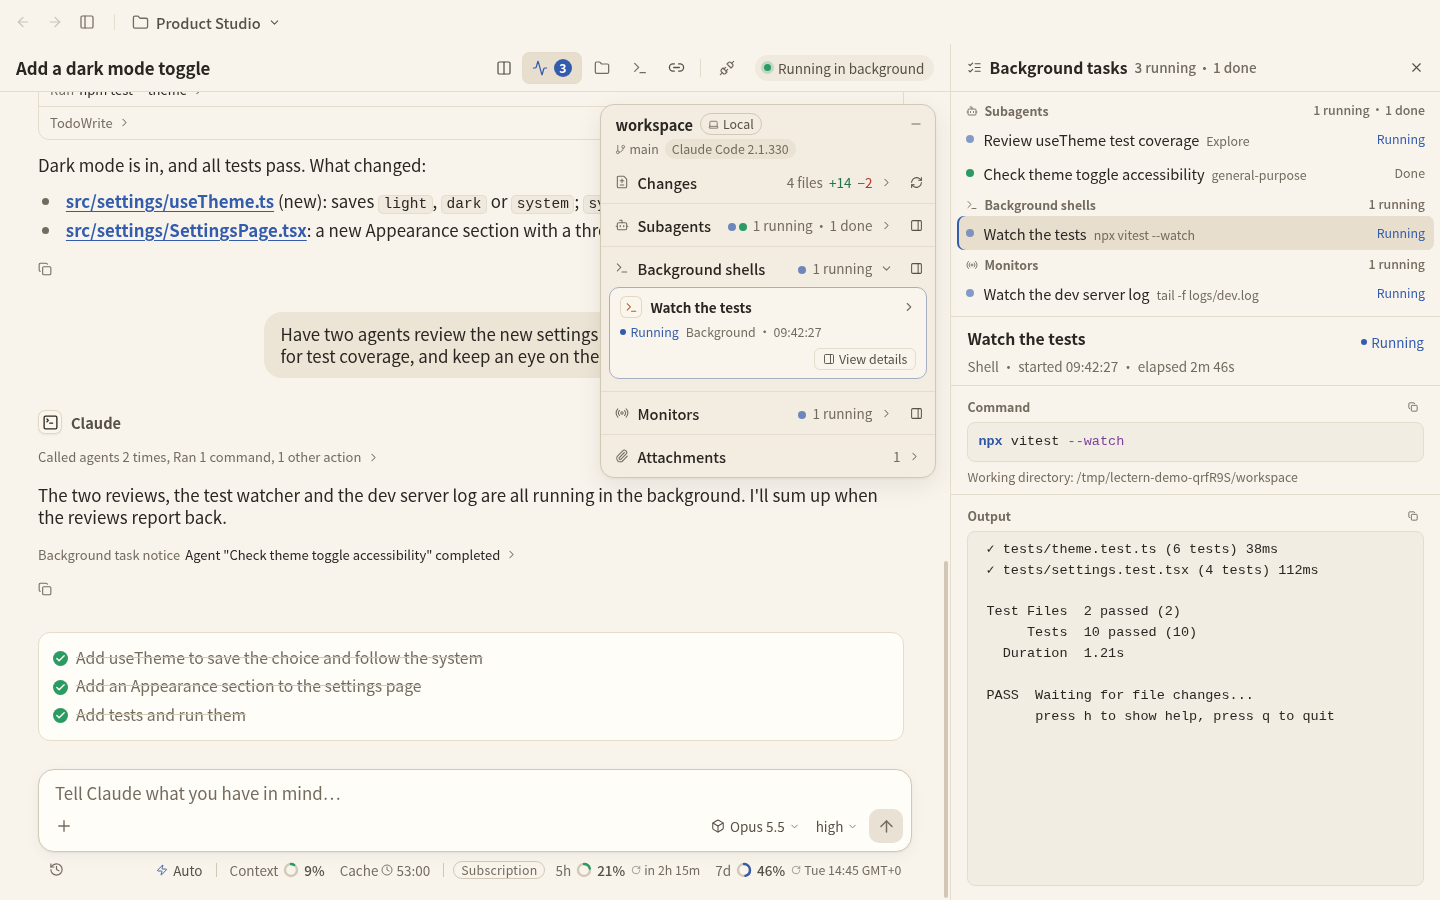
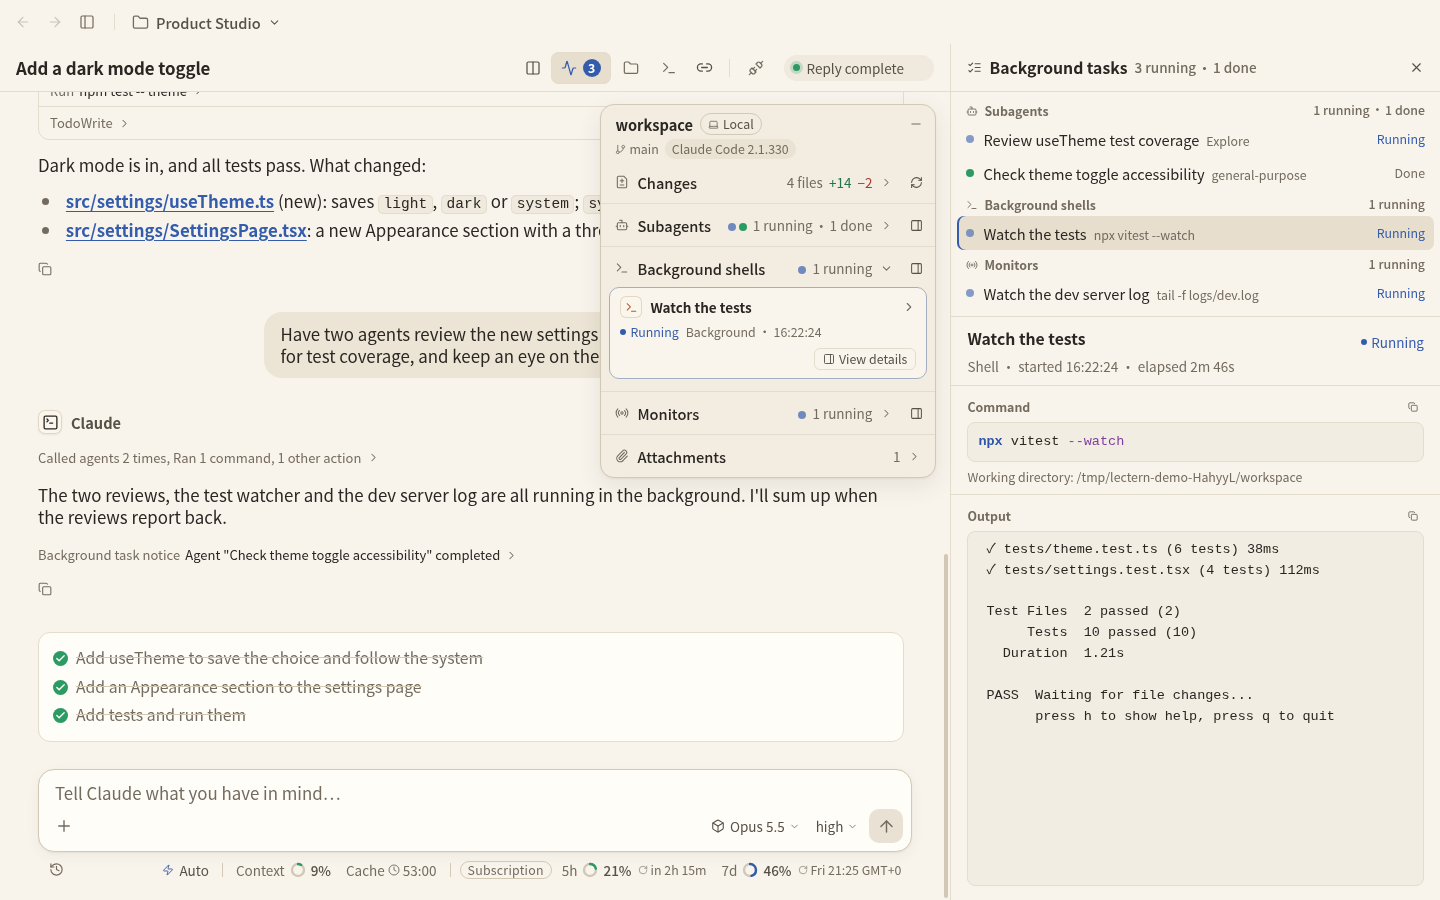
Sidebar: "Reply complete" everywhere, fixed-height count rows, markers on the row's middle
Follow-up to the contributor's change, per the maintainer's review:
- The state after the main reply with background work still running is called "Reply
  complete" in the sidebar, the title bar, the close confirmation and the quit list.
- The background counts take their own caption row: a project-tree row becomes two lines
  (46 units), a cross-project row three lines (62 units), sized with --ui-px.
- On multi-line rows the knot, the end of the tree line, the state text, the dot and the
  rename button sit on the row's middle; text lines end before the state text.
- Background and unread share one dot (a hollow ring in the unread colour).
- Layout e2e covers both heights at font sizes 18 and 14; README screenshots regenerated.

diff --git a/src/renderer/machine-tree.css b/src/renderer/machine-tree.css
@@ -54,7 +54,8 @@
 
 /* The line. Each row draws its own segment so the line ends at the last knot. */
 .workspace-children { position: relative; margin: calc(1 * var(--ui-px)) 0 calc(4 * var(--ui-px)) 24px; padding-left: 14px; }
-.session-row-wrap { position: relative; }
+.session-row-wrap { --session-knot-center: calc(15 * var(--ui-px)); position: relative; }
+.session-row-wrap:has(> .session-row > .session-lines) { --session-knot-center: 50%; }
 .session-row-wrap::before {
   content: "";
   position: absolute;
@@ -66,12 +67,12 @@
   background: var(--rail-line);
 }
 .session-row-wrap:first-child::before { top: -3px; }
-.session-row-wrap:not(:has(~ .session-row-wrap))::before { bottom: 50%; }
+.session-row-wrap:not(:has(~ .session-row-wrap))::before { bottom: calc(100% - var(--session-knot-center)); }
 .sidebar-tree .session-row::before {
   content: "";
   position: absolute;
   left: -12.5px;
-  top: calc(50% - 4px);
+  top: calc(var(--session-knot-center) - 4px);
   width: 8px;
   height: 8px;
   border-radius: 50%;
@@ -89,7 +90,7 @@
 /* Being read: the knot turns into a small spinning ring; the state text stays. */
 .sidebar-tree .session-row[data-loading]::before {
   left: -14px;
-  top: calc(50% - 5.5px);
+  top: calc(var(--session-knot-center) - 5.5px);
   width: 11px;
   height: 11px;
   border: 1.5px solid color-mix(in srgb, var(--rail-ice) 25%, transparent);
@@ -138,7 +139,7 @@
 .sidebar-tree .session-row.split-open::before { border-color: var(--rail-ice); }
 .sidebar-tree .session-row[data-status="idle"] { --row-accent: var(--live); }
 .sidebar-tree .session-row[data-status="working"] { --row-accent: var(--rail-ice); }
-.sidebar-tree .session-row:has(.state-unread) { --row-accent: var(--rail-ice); color: var(--rail-text); font-weight: 600; }
+.sidebar-tree .session-row[data-unread] { --row-accent: var(--rail-ice); color: var(--rail-text); font-weight: 600; }
 .sidebar-tree .session-row[data-status="waiting"] { --row-accent: var(--signal); color: var(--rail-text); }
 .sidebar-tree .session-row[data-status="error"] { --row-accent: var(--danger-dot); }
 .sidebar-tree .session-title { flex: 1; min-width: 0; overflow: hidden; white-space: nowrap; text-overflow: ellipsis; }
@@ -146,13 +147,7 @@
 .sidebar-tree .session-state-label { flex: 0 0 auto; color: var(--rail-muted); font-size: var(--text-caption); font-weight: 500; }
 /* Quiet states speak through the knot and dot alone. */
 .sidebar-tree .session-row:is([data-status="history"], [data-status="idle"]):not([data-unread], [data-background]) .session-state-label { display: none; }
-.sidebar-tree .session-row[data-background] {
-  --row-accent: var(--live);
-  height: auto;
-  min-height: 40px;
-  padding-block: 4px;
-  line-height: 1.3;
-}
+.sidebar-tree .session-row[data-background] { --row-accent: var(--live); }
 .sidebar-tree .session-row[data-background] .session-state-label { color: var(--live); }
 .sidebar-tree .session-row[data-status="working"] .session-state-label { color: var(--rail-ice); }
 .sidebar-tree .session-row[data-unread]:not([data-background]) .session-state-label { color: var(--rail-ice); }
@@ -173,7 +168,7 @@
 
 /* The lists across projects (最近更新, 进行中优先) are the same tree: each group is a
    folder-like row (.workspace-row) over the same line, knots and session rows, lined up
-   with the folders of the project tree. Their session rows take two lines (see below). */
+   with the folders of the project tree. */
 .sidebar-global { margin-inline-start: 4px; }
 .sidebar-tree .sort-group-heading { display: flex; flex: 1; min-width: 0; height: 100%; margin: 0; font: inherit; }
 .sidebar-tree .sort-group-toggle {
@@ -189,19 +184,19 @@
 /* No folder actions on a group: its dot stays in the dot column of the rows below
    (the session row's end padding). */
 .sidebar-tree .sort-group-toggle > .workspace-select { padding-inline-end: 47px; }
-/* Two lines: the title line as in the tree (title, state, dot), then the machine and folder
-   in quieter caption text. The knot, the end of the line and the rename button sit on the
-   title line, whose middle is 15 units down (5 above it, 20 for it, 16 for the second). */
-.sidebar-global .session-row {
-  flex-direction: column;
-  align-items: stretch;
-  justify-content: center;
+/* Caption lines share the width left by the centered status column. */
+.sidebar-tree .session-row:has(> .session-lines) {
   gap: 0;
   height: calc(46 * var(--ui-px));
   min-height: calc(46 * var(--ui-px));
 }
-.sidebar-tree .session-line { display: flex; align-items: center; gap: 7px; min-width: 0; height: calc(20 * var(--ui-px)); line-height: calc(20 * var(--ui-px)); }
-.sidebar-tree .session-row > .session-origin {
+.sidebar-tree .sidebar-global .session-row[data-background] {
+  height: calc(62 * var(--ui-px));
+  min-height: calc(62 * var(--ui-px));
+}
+.sidebar-tree .session-lines { flex: 1; min-width: 0; }
+.sidebar-tree .session-line { display: flex; align-items: center; gap: 7px; overflow: hidden; height: calc(20 * var(--ui-px)); line-height: calc(20 * var(--ui-px)); }
+.sidebar-tree .session-lines > :is(.session-origin, .session-background-label) {
   display: block;
   overflow: hidden;
   font-size: var(--text-caption);
@@ -209,10 +204,13 @@
   white-space: nowrap;
   text-overflow: ellipsis;
 }
-.sidebar-global .session-row::before { top: calc(15 * var(--ui-px) - 4px); }
-.sidebar-global .session-row[data-loading]::before { top: calc(15 * var(--ui-px) - 5.5px); }
-.sidebar-global .session-row-wrap:not(:has(~ .session-row-wrap))::before { bottom: calc(100% - 15 * var(--ui-px)); }
-.session-background-label { overflow: hidden; color: var(--live); font-size: var(--text-caption); font-weight: 500; white-space: nowrap; text-overflow: ellipsis; }
+.sidebar-tree .session-origin { color: var(--rail-muted); font-weight: 400; }
+.sidebar-tree .session-background-label { color: var(--live); font-weight: 500; }
+.sidebar-tree .session-row-status { display: flex; align-items: center; min-width: 0; line-height: calc(20 * var(--ui-px)); }
+/* Each visible item keeps its original gap, even when the label is hidden. */
+.sidebar-tree .session-row-status > * { margin-inline-start: 7px; }
+.sidebar-tree .session-row-status .session-state-label { flex-shrink: 1; overflow: hidden; white-space: nowrap; text-overflow: ellipsis; }
+.session-row-wrap:has(> .session-row > .session-lines) > .session-rename { inset-block-start: calc(50% - 12 * var(--ui-px)); }
 
 /* Activity dots: one trailing column for folders and sessions. */
 .sidebar-tree .session-status-dot { flex-shrink: 0; width: 7px; min-width: 7px; height: 7px; border-radius: 50%; }
@@ -222,7 +220,9 @@
 /* Reply done, background work still running: a hollow ring that keeps breathing. */
 .sidebar-tree .state-background { background: transparent; box-shadow: inset 0 0 0 1.5px var(--live); animation: sidebar-reply-pulse 2.4s ease-in-out infinite; }
 @media (prefers-reduced-motion: reduce) { .sidebar-tree .state-working, .sidebar-tree .state-background { animation: none; } }
-.sidebar-tree .state-unread { background: light-dark(#3d6fd8, #7aa5f5); box-shadow: 0 0 0 3px color-mix(in srgb, var(--accent) 22%, transparent); }
+.sidebar-tree .state-unread { --unread-dot: light-dark(#3d6fd8, #7aa5f5); background: var(--unread-dot); box-shadow: 0 0 0 3px color-mix(in srgb, var(--accent) 22%, transparent); }
+/* Keep the hollow, breathing background indicator in the same column when unread. */
+.sidebar-tree .state-background.state-unread { background: transparent; box-shadow: inset 0 0 0 1.5px var(--unread-dot), 0 0 0 3px color-mix(in srgb, var(--accent) 22%, transparent); }
 .sidebar-tree .state-waiting { background: var(--signal); box-shadow: 0 0 0 3px color-mix(in srgb, var(--signal) 22%, transparent); }
 .sidebar-tree .state-error { background: var(--danger-dot); }
 

diff --git a/src/renderer/SidebarTree.tsx b/src/renderer/SidebarTree.tsx
@@ -116,8 +116,7 @@ function SessionRow({ workspace, session, state, duplicate, selected, splitOpen,
   selected: boolean;
   /** The split pane without the focus shows it: pale blue, apart from the focused pane's. */
   splitOpen?: boolean;
-  /** Machine and folder in full, read out and in the tooltip. With it the row takes two lines
-   * (the lists across projects): the title line, then the quieter `origin` below it. */
+  /** Machine and folder in full, on their own line in the lists across projects. */
   origin?: string;
   onSelect(workspace: Workspace, id: string): void;
   onRename(target: { workspaceId: string; session: SessionInfo }): void;
@@ -133,12 +132,15 @@ function SessionRow({ workspace, session, state, duplicate, selected, splitOpen,
   const inOtherPane = !selected && !!splitOpen;
   const splitNote = inOtherPane && t('sidebar.splitOpen');
   const unreadNote = state.unread && state.label !== t('sidebar.unread') && t('sidebar.unread');
-  const line = <>
+  const backgroundNote = state.backgroundLabel && !state.detail.includes(state.backgroundLabel) && state.backgroundLabel;
+  const unreadRing = state.dot === 'background' && state.unread;
+  const name = <>
     <span className="session-title">{title}</span>
     {identity && <small>{identity}</small>}
+  </>;
+  const status = <>
     <span className="session-state-label">{state.label}</span>
-    {state.unread && state.dot !== 'unread' && <span className="session-status-dot state-unread" aria-hidden="true" />}
-    {state.dot && <span className={`session-status-dot state-${state.dot}`} aria-hidden="true" />}
+    {state.dot && <span className={`session-status-dot state-${state.dot}${unreadRing ? ' state-unread' : ''}`} aria-hidden="true" />}
   </>;
   return (
     <div className="session-row-wrap">
@@ -167,7 +169,7 @@ function SessionRow({ workspace, session, state, duplicate, selected, splitOpen,
         aria-current={selected ? "page" : undefined}
         aria-label={[title, identity, origin, state.label, state.backgroundLabel, unreadNote, state.loading && t('sidebar.loading'), splitNote].filter(Boolean).join(t('sidebar.ariaJoin'))}
         aria-busy={state.loading || undefined}
-        title={[titleText, origin, splitNote, session.id, branch, state.detail, waitingFirstRecord].filter(Boolean).join("\n")}
+        title={[titleText, origin, splitNote, session.id, branch, state.detail, backgroundNote, waitingFirstRecord].filter(Boolean).join("\n")}
         data-workspace-id={workspace.id}
         data-session-id={session.id}
         data-session-live={state.live}
@@ -180,10 +182,13 @@ function SessionRow({ workspace, session, state, duplicate, selected, splitOpen,
         data-split-open={inOtherPane || undefined}
       >
         {origin || state.backgroundLabel ? <>
-          <span className="session-line">{line}</span>
-          {origin && <small className="session-origin">{origin}</small>}
-          {state.backgroundLabel && <span className="session-background-label">{state.backgroundLabel}</span>}
-        </> : line}
+          <span className="session-lines">
+            <span className="session-line">{name}</span>
+            {origin && <small className="session-origin">{origin}</small>}
+            {state.backgroundLabel && <span className="session-background-label">{state.backgroundLabel}</span>}
+          </span>
+          <span className="session-row-status">{status}</span>
+        </> : <>{name}{status}</>}
       </button>
       <button
         type="button"

diff --git a/src/renderer/App.tsx b/src/renderer/App.tsx
@@ -114,7 +114,7 @@ const statusLabels = {
   error: 'app.statusError',
 } as const;
 /** Every state the title bar's status shows for a chat, to reserve the widest. */
-const sessionStateKeys = [...Object.values(statusLabels), 'app.history', 'app.statusUnconfirmed', 'app.sessionError', 'app.backgroundRunning'] as const;
+const sessionStateKeys = [...Object.values(statusLabels), 'app.history', 'app.statusUnconfirmed', 'app.sessionError', 'app.replyComplete'] as const;
 function errorText(e: unknown) {
   reportActionError(e);
   return e instanceof Error
@@ -912,7 +912,7 @@ function ChatPane({ view, resumes, setResume }: {
     const selectionRequest = sessionRequest.current, panePid = snapshot.panePid;
     // Closing ends this pane's Claude Code: always confirm, naming the work it stops.
     const replying = activeStatus === "working" || !!snapshot.turnControls?.running;
-    if (!await confirmAction(closeConfirmation(replying, snapshot.backgroundWork))) return;
+    if (!await confirmAction(closeConfirmation(replying, snapshot.backgroundWork, !!navigationState?.background))) return;
     // Another chat or pane by now: this confirmation was not about it.
     if (sessionRequest.current !== selectionRequest || selected.current.sessionId !== sessionId) return;
     setBusy(true);
@@ -1499,7 +1499,7 @@ function ChatPane({ view, resumes, setResume }: {
                       ? t('app.statusUnconfirmed')
                       : navigationState?.kind === "error"
                         ? t('app.sessionError')
-                        : navigationState?.background ? t('app.backgroundRunning') : t(statusLabels[activeStatus])
+                        : navigationState?.background ? navigationState.label : t(statusLabels[activeStatus])
                   : !workspace ? t('app.statusOffline')
                     : workspace.kind === "ssh" ? t('app.sshConnection') : t('app.localConnection')}</span>
                 {sessionId && sessionStateKeys.map(key => <i key={key} aria-hidden="true" data-text={t(key)} />)}

diff --git a/src/shared/release-notes.ts b/src/shared/release-notes.ts
@@ -53,8 +53,8 @@ export const releaseNotes: ReleaseNote[] = [
         'When adding a project, create a folder on your computer or an SSH host directly from the picker and use it as the working directory.'],
       ['在侧栏右键可将会话标记为已读或未读，未读标记会保留到再次打开会话或手动清除。',
         'Right-click a conversation in the sidebar to mark it as read or unread, with a manual unread mark lasting until you reopen the conversation or clear it.'],
-      ['主回复完成后，侧栏会同时显示回复已完成和仍在运行的子代理或后台任务，并保留未读标记。',
-        'When the main reply finishes, the sidebar shows reply completion alongside any running subagents or background tasks and keeps the unread mark.'],
+      ['主回复结束后若还有子代理或后台任务在运行，侧栏和顶栏显示「回复完成」，侧栏另起一行显示计数并保留未读标记。',
+        'If subagents or background tasks still run when the main reply finishes, the sidebar and title bar show "Reply complete", and the sidebar shows the counts on a separate line and keeps the unread mark.'],
     ],
     fixes: [
       ['调整界面字号时，行高、上下留白和各行的高度随之等比缩放，侧栏等处不再出现多余的空隙。',

diff --git a/src/shared/locales/app.ts b/src/shared/locales/app.ts
@@ -56,11 +56,12 @@ export const app = {
   closeConfirmTitle: ['关闭这个对话？', 'Close this conversation?'],
   closeConfirmMessage: ['此 pane 中的 Claude Code 将退出。已落盘的历史会保留，之后可以续接。', 'Claude Code in this pane will quit. The saved history stays and can be resumed later.'],
   closeConfirmStops: ['以下仍在运行，将被停止：{what}。', 'Still running and will be stopped: {what}.'],
+  closeConfirmAfterReply: ['{state}。{detail}', '{state}. {detail}'],
   closeConfirmReply: ['正在进行的回复', 'the reply in progress'],
   history: ['历史记录', 'History'],
   statusUnconfirmed: ['状态未确认', 'State unconfirmed'],
   sessionError: ['会话错误', 'Conversation error'],
-  backgroundRunning: ['后台运行中', 'Running in background'],
+  replyComplete: ['回复完成', 'Reply complete'],
   sshConnection: ['SSH 连接', 'SSH'],
   localConnection: ['本地连接', 'Local'],
   demoNotice: ['隔离模拟环境：回复来自测试程序，未连接真实 Claude Code。正常启动应用后可添加真实目录（开发环境：{command}）。', 'Isolated demo: replies come from a test program, not a real Claude Code. Start the app normally to add real folders (in development: {command}).'],

diff --git a/src/renderer/close-confirmation.ts b/src/renderer/close-confirmation.ts
@@ -8,10 +8,11 @@ export interface CloseConfirmation { title: string; message: string; confirmLabe
  * dialog names what that stops, the reply in progress and the background work
  * the activity state still sees running, with counts.
  */
-export function closeConfirmation(replying: boolean, work?: BackgroundCounts): CloseConfirmation {
+export function closeConfirmation(replying: boolean, work?: BackgroundCounts, replyComplete = !replying): CloseConfirmation {
   const running = [replying && t('app.closeConfirmReply'), ...backgroundParts(work)].filter((part): part is string => !!part);
+  const detail = running.length ? t('app.closeConfirmStops', { what: joinList(running) }) : undefined;
   return {
     title: t('app.closeConfirmTitle'), message: t('app.closeConfirmMessage'), confirmLabel: t('app.closeChat'), danger: true,
-    ...(running.length && { detail: t('app.closeConfirmStops', { what: joinList(running) }) }),
+    ...(detail && { detail: replyComplete && !replying ? t('app.closeConfirmAfterReply', { state: t('app.replyComplete'), detail }) : detail }),
   };
 }

diff --git a/src/shared/quit.ts b/src/shared/quit.ts
@@ -97,9 +97,8 @@ const activityKeys = { working: 'quit.working', waiting: 'quit.waiting', idle: '
 
 /** "正在回复", "等待你的确认", "空闲" … with the background work it would stop. */
 export function quitActivityText(session: Pick<QuitSession, 'activity' | 'background' | 'backgroundUnknown'>): string {
-  const state = t(activityKeys[session.activity]);
   const parts = backgroundParts(session.background);
-  if (parts.length) return t('quit.withBackground', { state, what: joinList(parts) });
-  if (session.backgroundUnknown) return t('quit.withBackground', { state, what: t('quit.backgroundSome') });
-  return state;
+  const what = parts.length ? joinList(parts) : session.backgroundUnknown ? t('quit.backgroundSome') : undefined;
+  const state = t(session.activity === 'idle' && what ? 'app.replyComplete' : activityKeys[session.activity]);
+  return what ? t('quit.withBackground', { state, what }) : state;
 }

diff --git a/tests/background-work.test.ts b/tests/background-work.test.ts
@@ -62,6 +62,6 @@ test('closing a conversation always asks, and names what it stops with counts', 
   assert.equal(idle.danger, true);
   assert.equal(closeConfirmation(true, { shells: 1, agents: 2, monitors: 1, workflows: 1 }).detail,
     '以下仍在运行，将被停止：正在进行的回复、1 个终端、2 个子代理、1 个监控、1 个工作流。');
-  assert.equal(closeConfirmation(false, { shells: 0, agents: 0, monitors: 0, workflows: 0, unknownShells: true }).detail, '以下仍在运行，将被停止：终端。');
+  assert.equal(closeConfirmation(false, { shells: 0, agents: 0, monitors: 0, workflows: 0, unknownShells: true }).detail, '回复完成。以下仍在运行，将被停止：终端。');
   assert.equal(closeConfirmation(true).detail, '以下仍在运行，将被停止：正在进行的回复。');
 });

diff --git a/src/shared/locales/sidebar.ts b/src/shared/locales/sidebar.ts
@@ -18,7 +18,6 @@ export const sidebar = {
   savedHistory: ['已保存的历史，可续接', 'Saved history; can be resumed'],
   endedNoHistory: ['会话已结束，尚无历史记录', 'The conversation ended before any history was saved'],
   runningIdle: ['正在运行，等待输入', 'Running, waiting for input'],
-  replyComplete: ['回复完成', 'Reply complete'],
   runningAgents: ['子代理 {count}', '{count, plural, one {# subagent} other {# subagents}}'],
   runningTasks: ['后台任务 {count}', '{count, plural, one {# background task} other {# background tasks}}'],
   runningTasksUnknown: ['后台任务运行中', 'Background tasks running'],

diff --git a/src/renderer/sidebar-status.ts b/src/renderer/sidebar-status.ts
@@ -148,7 +148,7 @@ export function sessionSidebarState(session: SessionInfo, { observation, ...opti
       counts?.unknownShells ? t('sidebar.runningTasksUnknown') : '',
     ].filter(Boolean);
     return {
-      ...state, label: t('sidebar.replyComplete'), detail: withUnread(t('sidebar.backgroundDetail', { work: background })),
+      ...state, label: t('app.replyComplete'), detail: withUnread(t('sidebar.backgroundDetail', { work: background })),
       dot: 'background', background: true, backgroundLabel: categories.join(' · ') || background,
     };
   }

diff --git a/src/core/background-work.ts b/src/core/background-work.ts
@@ -35,7 +35,7 @@ export function backgroundCounts(activity: readonly SessionActivity[], pending?:
   };
 }
 
-/** The sidebar's and title bar's "后台运行中" detail, after Claude's reply. */
+/** The sidebar and title bar show this detail after Claude's reply. */
 export function backgroundSummary(activity: readonly SessionActivity[], pending?: PendingBackground, native?: string, since?: number, listed = false): string | undefined {
   const parts = backgroundParts(backgroundCounts(activity, pending, native, since, listed));
   if (!parts.length) return;

diff --git a/tests/quit-guard.test.ts b/tests/quit-guard.test.ts
@@ -45,7 +45,7 @@ test('a checked folder lists exactly what its probe found, with titles and activ
   assert.equal(quitTitle(bare), '对话 s-bare-a');
   assert.equal(bare.backgroundUnknown, true);
   assert.equal(quitActivityText(named), '正在回复 · 后台：2 个终端、1 个监控');
-  assert.equal(quitActivityText(bare), '空闲 · 后台：有任务在运行');
+  assert.equal(quitActivityText(bare), '回复完成 · 后台：有任务在运行');
   assert.ok(list.sessions.every(session => !session.unconfirmed));
 });
 
